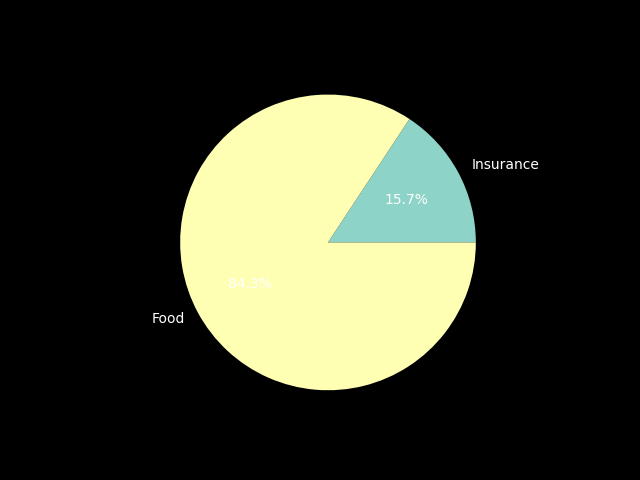
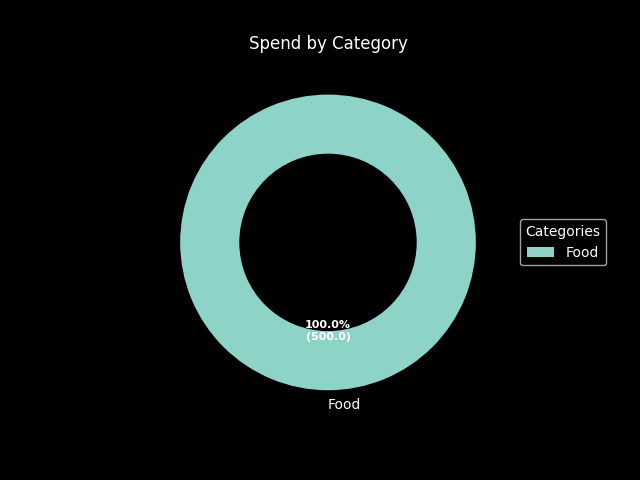
Bug fixes: added helper functions to connect to db to make a database switch simpler

diff --git a/final_project/helpers.py b/final_project/helpers.py
@@ -63,10 +63,10 @@ def getLine(start, end):
         expense_dates = []
         expense_runtot = []
         expnse_cumsum = 0
-        # Income vars
-        income_dates = []
-        income_runtot = []
-        income_cumsum = 0
+        # Income vars - not in use
+        #income_dates = []
+        #income_runtot = []
+        #income_cumsum = 0
 
         for i in data:
             # Append expense data to expense vars
@@ -79,21 +79,20 @@ def getLine(start, end):
                 expnse_cumsum += i["day_tot"]
                 expense_runtot.append(expnse_cumsum)
             # Appends incone data to income vars
-            else:
-                try:
-                    dt = datetime.fromisoformat(i["date"])
-                except:
-                    dt = datetime.strptime(i["dates"], "%Y-%m-%d")
-                income_dates.append(dt)
-                income_cumsum += i["day_tot"]
-                income_runtot.append(income_cumsum)
+            #else:
+                #try:
+                    #dt = datetime.fromisoformat(i["date"])
+                #except:
+                    #dt = datetime.strptime(i["dates"], "%Y-%m-%d")
+                #income_dates.append(dt)
+                #income_cumsum += i["day_tot"]
+                #income_runtot.append(income_cumsum)
 
         # Plot and save graph
         plt.style.use('dark_background')
         fig, ax = plt.subplots()
         ax.plot(expense_dates, expense_runtot, '-o')
-        ax.plot(income_dates, income_runtot, '-o')
-        #ax = plt.gca()
+        # ax.plot(income_dates, income_runtot, '-o')
         ax.xaxis.set_major_formatter(mdates.DateFormatter("%d/%m"))
         plt.savefig('static/my_line-expsnses.png') # Todo: Should probably add user id to name to allow multiple users 
        
@@ -121,8 +120,36 @@ def getPie(start, end):
 
      #plt.style.use('dark_background')
      fig, ax = plt.subplots()
-     ax.pie(totals, labels=categories, autopct='%1.1f%%')
+     # ax.pie(totals, labels=categories, autopct='%1.1f%%')
+
+     def autopct_func(pct, allvals):
+          absolute = round(pct / 100 * sum(allvals), 2)
+          return f"{pct:.1f}%\n({absolute})"
+     
+     wedges, texts, autotexts = ax.pie(
+          totals,
+          labels=categories,
+          autopct=lambda pct: autopct_func(pct, totals), 
+          wedgeprops={'width': 0.4},
+          startangle=90
+
+     )
+
+     ax.legend(
+          wedges, categories,
+          title="Categories",
+          loc="center left",
+          bbox_to_anchor=(1, 0, 0.5, 1)
+     )
+
+     plt.setp(autotexts, size=8, weight="bold")
+     ax.set_aspect('equal')
+
+     ax.set_title("Spend by Category")
+
      plt.savefig('static/my_pie_expenses.png')
+     plt.close(fig)
+
 
      con.close()
      if os.path.exists('static/my_pie_expenses.png'):

diff --git a/final_project/app.py b/final_project/app.py
@@ -43,12 +43,11 @@ def index():
         return redirect("/login")
     
     # Open DB connection
-    con = sqlite3.connect("final.db")
-    con.row_factory = sqlite3.Row
+    con = conDbDict()
     cur = con.cursor()
 
     # Get user ID
-    user = cur.execute("SELECT id, username FROM users WHERE id = ?", (session["user_id"],)).fetchone()
+    user = getUser()
 
     # Get request
     if (request.method == "GET"):
@@ -118,8 +117,7 @@ def login():
             return render_template("error.html", message="invalid input")
 
         # Connect DB
-        con = sqlite3.connect("final.db")
-        con.row_factory = sqlite3.Row
+        con = conDbDict()
         cur = con.cursor()
 
         # Get user id & hash using lowercase username
@@ -149,8 +147,7 @@ def register():
     if (request.method == "POST"):
         session.clear()
         # Connect to DB
-        con = sqlite3.connect("final.db")
-        con.row_factory = sqlite3.Row 
+        con = conDbDict()
         cur = con.cursor()
 
         # Get username
